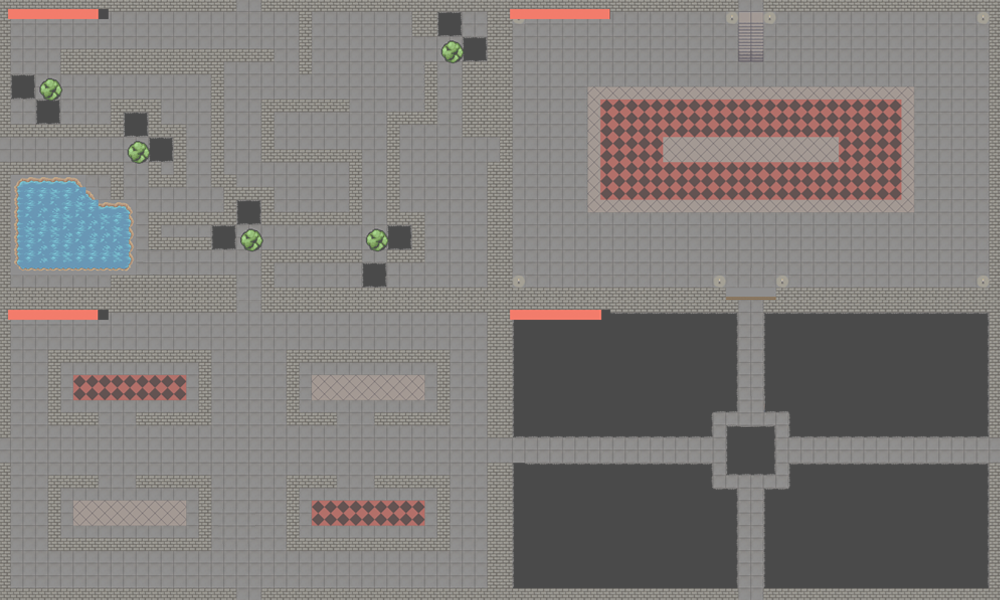
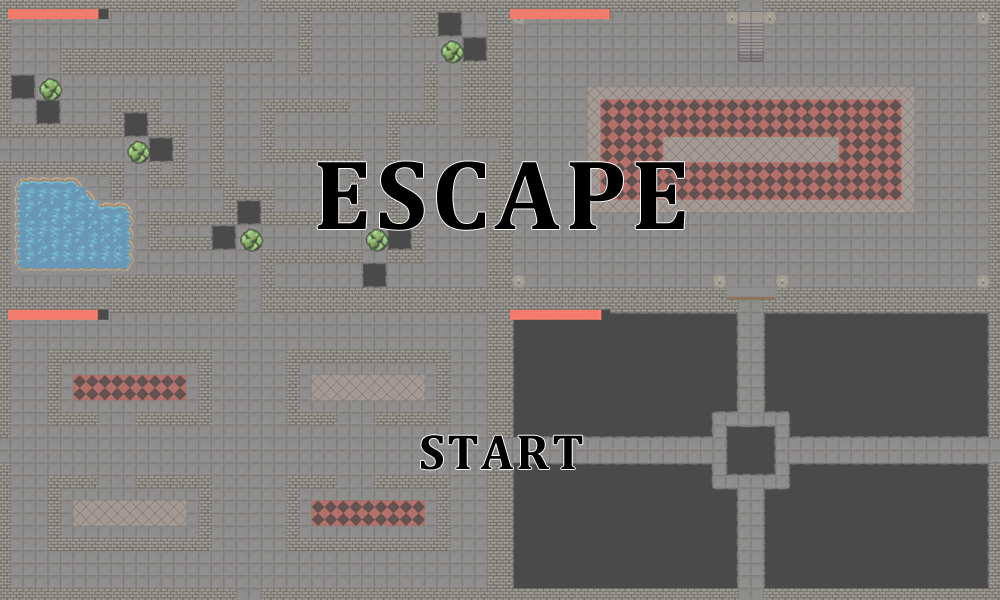
Start Menu
Looks nice

Changed region(s): [[0.31, 0.27, 0.682, 0.39], [0.403, 0.72, 0.589, 0.78]]

diff --git a/Escape/StartMenu.cs b/Escape/StartMenu.cs
@@ -32,15 +32,14 @@ namespace Escape
         public override void Draw(SpriteBatch sb)
         {
             sb.Draw(BackgroundTexture, BackgroundBox, Color.White);
-            sb.DrawString(Font, "ESCAPE", new Vector2(mg.GAME_WIDTH / 2, 200), Color.Black);
-            sb.DrawString(Font, "START", new Vector2(mg.GAME_WIDTH / 2, 500), Color.Black);
-
+//			sb.DrawString(Font, "ESCAPE", new Vector2((mg.GAME_WIDTH / 2)-30, 200), Color.Black);
+//			sb.DrawString(Font, "START", new Vector2((mg.GAME_WIDTH / 2)-25, 500), Color.Black);
         }
 
         public override void LoadContent(ContentManager cm)
         {
-            this.BackgroundTexture = new Texture2D(this.gd, 1, 1);
-            this.BackgroundTexture.SetData(new Color[] { Color.White });
+			this.BackgroundTexture = cm.Load<Texture2D>("Cover.png");
+//            this.BackgroundTexture.SetData(new Color[] { Color.White });
             this.Font = cm.Load<SpriteFont>("QuestionFont");
         }
 
